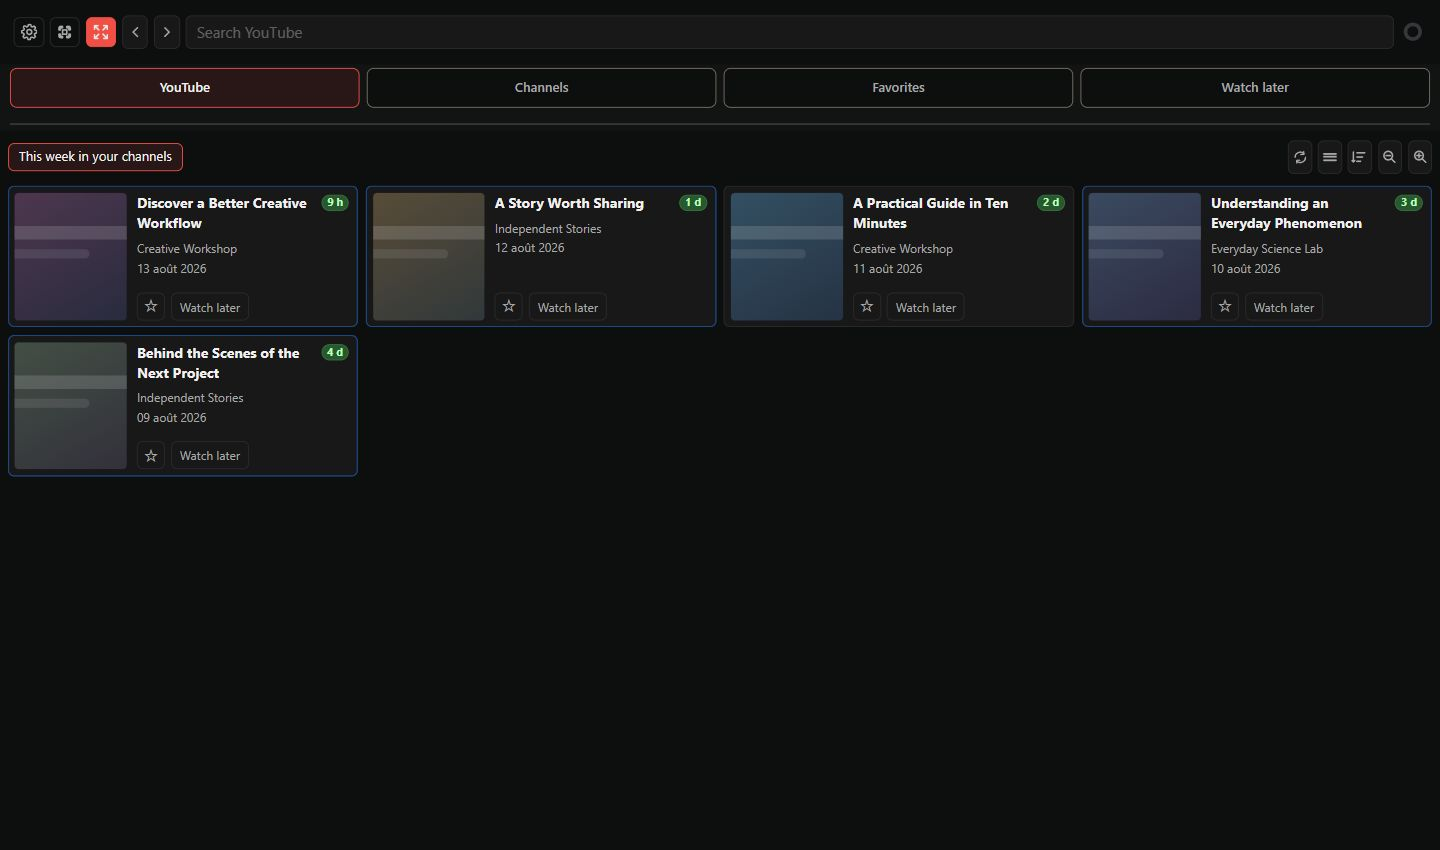
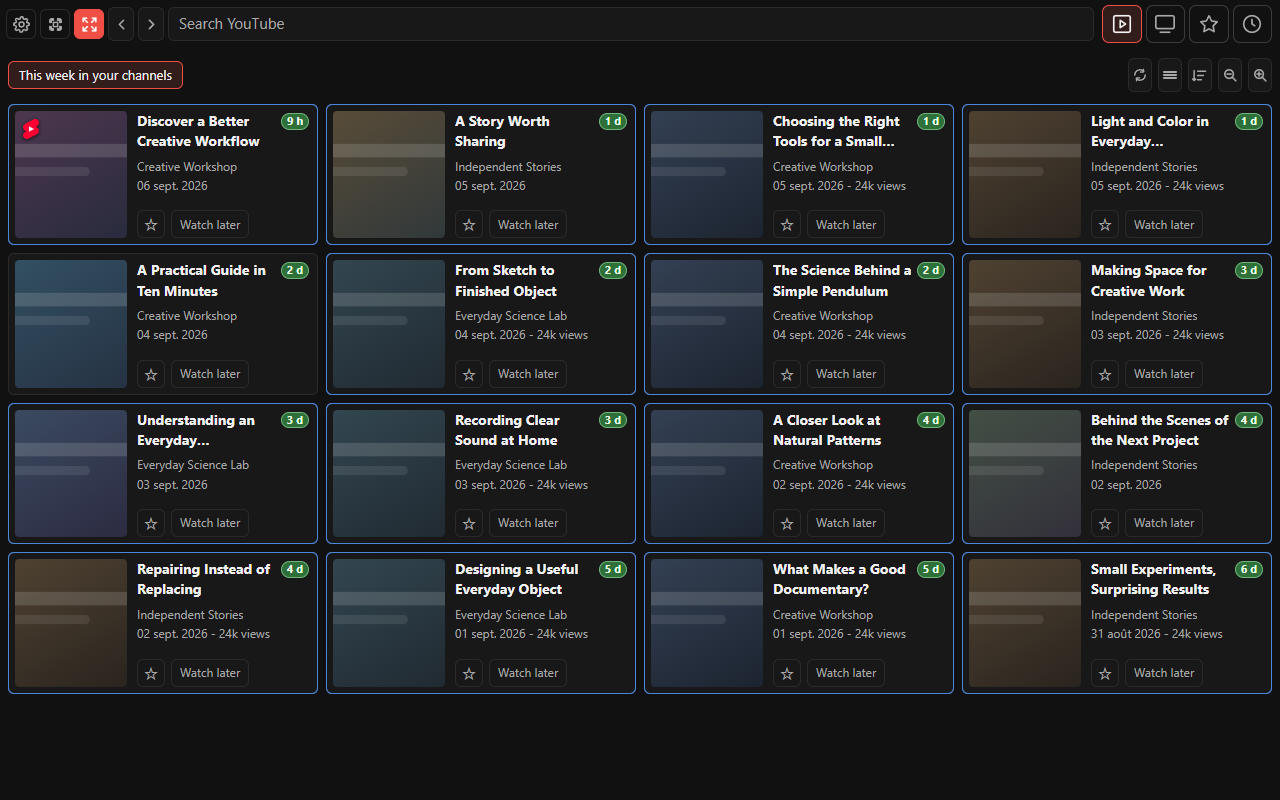
Show all layouts and features with current-interface screenshots

diff --git a/README.md b/README.md
@@ -14,7 +14,7 @@
 
 YouTube Shelf keeps channels, recent uploads, favorite videos, and a personal watch-later list within reach while you browse YouTube. It runs as a narrow side panel or as a full-page workspace and does not require an account or a build step.
 
-> The screenshots below use fictional English-language channels and videos. They are rendered from the extension's real interface and styles. The YouTube page in contextual captures is deliberately blurred.
+> All screenshots below show the current interface, using fictional channels, videos and placeholder thumbnails. The YouTube page in contextual captures is deliberately blurred.
 
 ## Preview
 
@@ -49,7 +49,7 @@ The toolbar button switches between the browser side panel and a larger workspac
 
 ### Video display modes
 
-Each list can use the presentation best suited to the available panel width.
+Each list can use thumbnails only, adaptive columns, a single column, titles only, or compact titles with small thumbnails. Layout and zoom can be adjusted independently for each section.
 
 | Thumbnails | Adaptive columns |
 | --- | --- |
@@ -65,38 +65,35 @@ Each list can use the presentation best suited to the available panel width.
 
 ### Main sections
 
-| Channels | Favorites | Watch later |
-| --- | --- | --- |
-| <img src="docs/screenshots/youtube-shelf-panel-channels.png" alt="Channels tab"> | <img src="docs/screenshots/youtube-shelf-panel-favorites.png" alt="Favorites tab with Music categories and subcategories"> | <img src="docs/screenshots/youtube-shelf-panel-watch-later.png" alt="Watch later tab"> |
+| YouTube / weekly uploads | Channels |
+| --- | --- |
+| <img src="docs/screenshots/youtube-shelf-current-weekly.png" alt="YouTube tab with weekly uploads, search and refresh"> | <img src="docs/screenshots/youtube-shelf-panel-channels.png" alt="Channels, categories and age badges"> |
+
+| Favorites | Watch later |
+| --- | --- |
+| <img src="docs/screenshots/youtube-shelf-panel-favorites.png" alt="Favorites with categories, subcategories and personal notes"> | <img src="docs/screenshots/youtube-shelf-panel-watch-later.png" alt="Watch later with personal notes and video cards"> |
 
 Favorites support large, ordered category trees. In this example, **Music** contains **Live sessions**, **Albums**, **Production**, and **Music theory**.
 
+Search, sorting, notes, bulk selection and drag-and-drop grouping complement these views. On YouTube, clicking the dimmed weekly label clears the search and returns to weekly uploads.
+
+<details>
+<summary>Series and playlist discovery</summary>
+
+Right-click a video to discover related parts, then open its title badge to view numbered episodes. Refresh the list as new parts appear.
+
+<img src="docs/screenshots/youtube-shelf-current-series.png" width="600" alt="Series list with numbers over thumbnails">
+
+</details>
+
 ### Responsive layouts
 
-YouTube Shelf adapts from a narrow browser panel to a wide split view.
+YouTube Shelf adapts from a narrow browser panel to a wide layout. The four icon tabs share a single toolbar row when space allows.
 
 <p align="center">
   <img src="docs/screenshots/youtube-shelf-wide.png" width="62%" alt="YouTube Shelf wide split layout">
   <img src="docs/screenshots/youtube-shelf-narrow.png" width="28%" alt="YouTube Shelf narrow side-panel layout">
 </p>
-
-## Latest additions (3.3.19)
-
-The weekly label now clears a search with one click. Fullscreen hides Shelf and restores it on exit (or on the next page click if the browser requires it).
-
-Real interface rendered with fictional channels, videos and placeholder thumbnails; no personal account data.
-
-| Weekly videos | Channels |
-| --- | --- |
-| <img src="docs/screenshots/youtube-shelf-current-weekly.png" width="360" alt="Weekly video cards and icon navigation"> | <img src="docs/screenshots/youtube-shelf-current-channels.png" width="360" alt="Channel categories and age badges"> |
-
-### Series and playlists
-
-![Episode cards with prominent numbers over thumbnails](docs/screenshots/youtube-shelf-current-series.png)
-
-### YouTube subscriptions
-
-![YouTube and Shelf columns with directional copy controls](docs/screenshots/youtube-shelf-current-account.png)
 
 ## Installation
 
@@ -123,6 +120,8 @@ Updates installed from this repository are manual: replace the files, then use *
 5. Use the star action to save a video under **Favorites**, or add it to **Watch later**.
 6. Use the display and sorting controls above each list to tailor the view.
 
+YouTube fullscreen hides Shelf and restores it on exit; if the browser requires a gesture, the next page click restores it.
+
 The back and forward buttons navigate within the extension. The expand button opens full-page mode; the adjacent focus control changes how much of the surrounding YouTube page remains visible.
 
 ## Data and interoperability
@@ -144,7 +143,9 @@ Keep exported backups private if they contain personal notes or viewing organiza
 
 The **YouTube account** dialog compares **YouTube ← → Shelf** in compact rows. Shelf appears immediately; **Check subscriptions** fills YouTube progressively. Arrows copy one or all missing channels without removing the source. Right-click to unsubscribe on YouTube, or remove/classify a Shelf channel. Checks use your existing YouTube session without accessing your password; optional history stays local.
 
-Compact channel cards, responsive icon tabs, and animated refresh controls keep navigation clear. Repeated channel additions are deduplicated, and weekly reset preserves the current view.
+Shelf channels appear immediately; YouTube channels arrive as the check progresses. Hover a channel for the right-click hint. Repeated additions are deduplicated.
+
+<img src="docs/screenshots/youtube-shelf-current-account.png" width="680" alt="YouTube and Shelf subscription columns with copy arrows">
 
 ### WebDAV synchronization
 
@@ -179,7 +180,7 @@ The extension permissions are used to:
 
 No compilation or bundling is required. Edit the source files, then reload the unpacked extension from the browser's extension management page.
 
-The deterministic screenshot harness in `tools/snapshot-server.mjs` loads the real extension interface with fictional local data. It exists only for documentation captures and is not part of the installed extension runtime.
+The screenshot harness (`tools/snapshot-server.mjs` and `tools/capture-readme.cjs`, using Playwright) loads the real extension interface with fictional local data. It exists only for documentation captures and is not part of the installed extension runtime.
 
 See [CHANGELOG.md](CHANGELOG.md) for release history.
 
